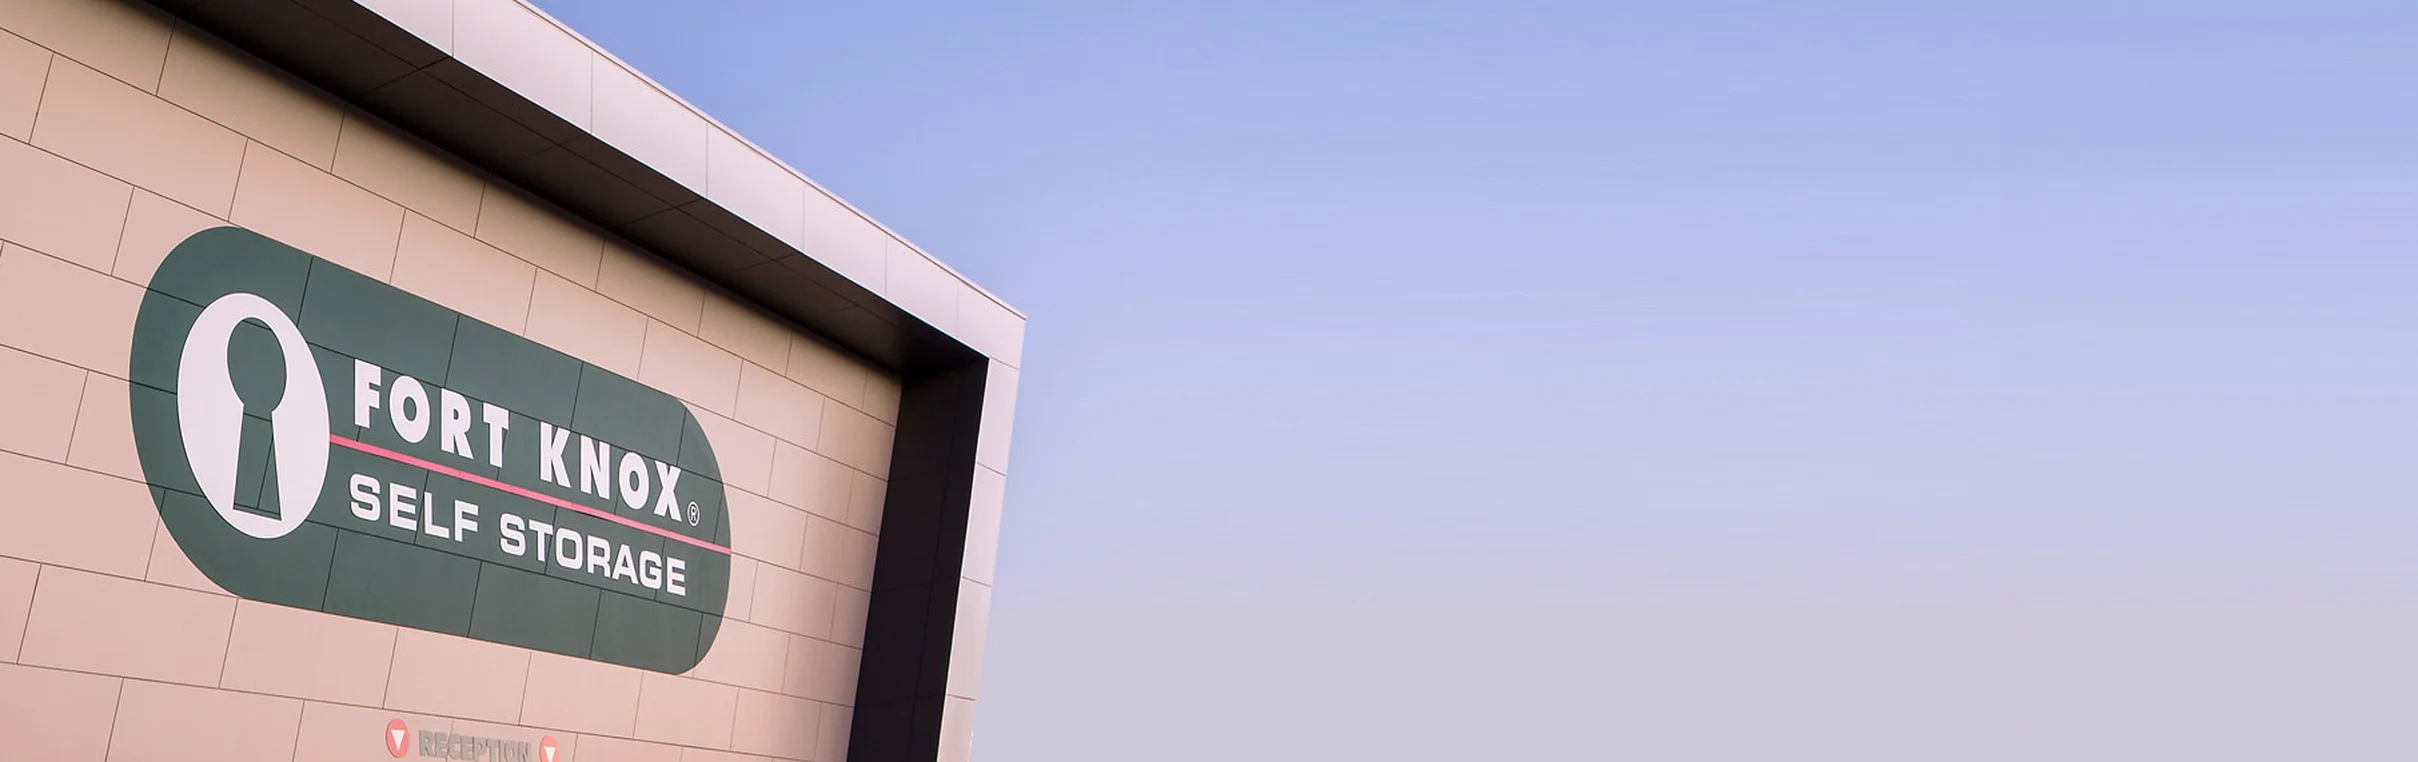
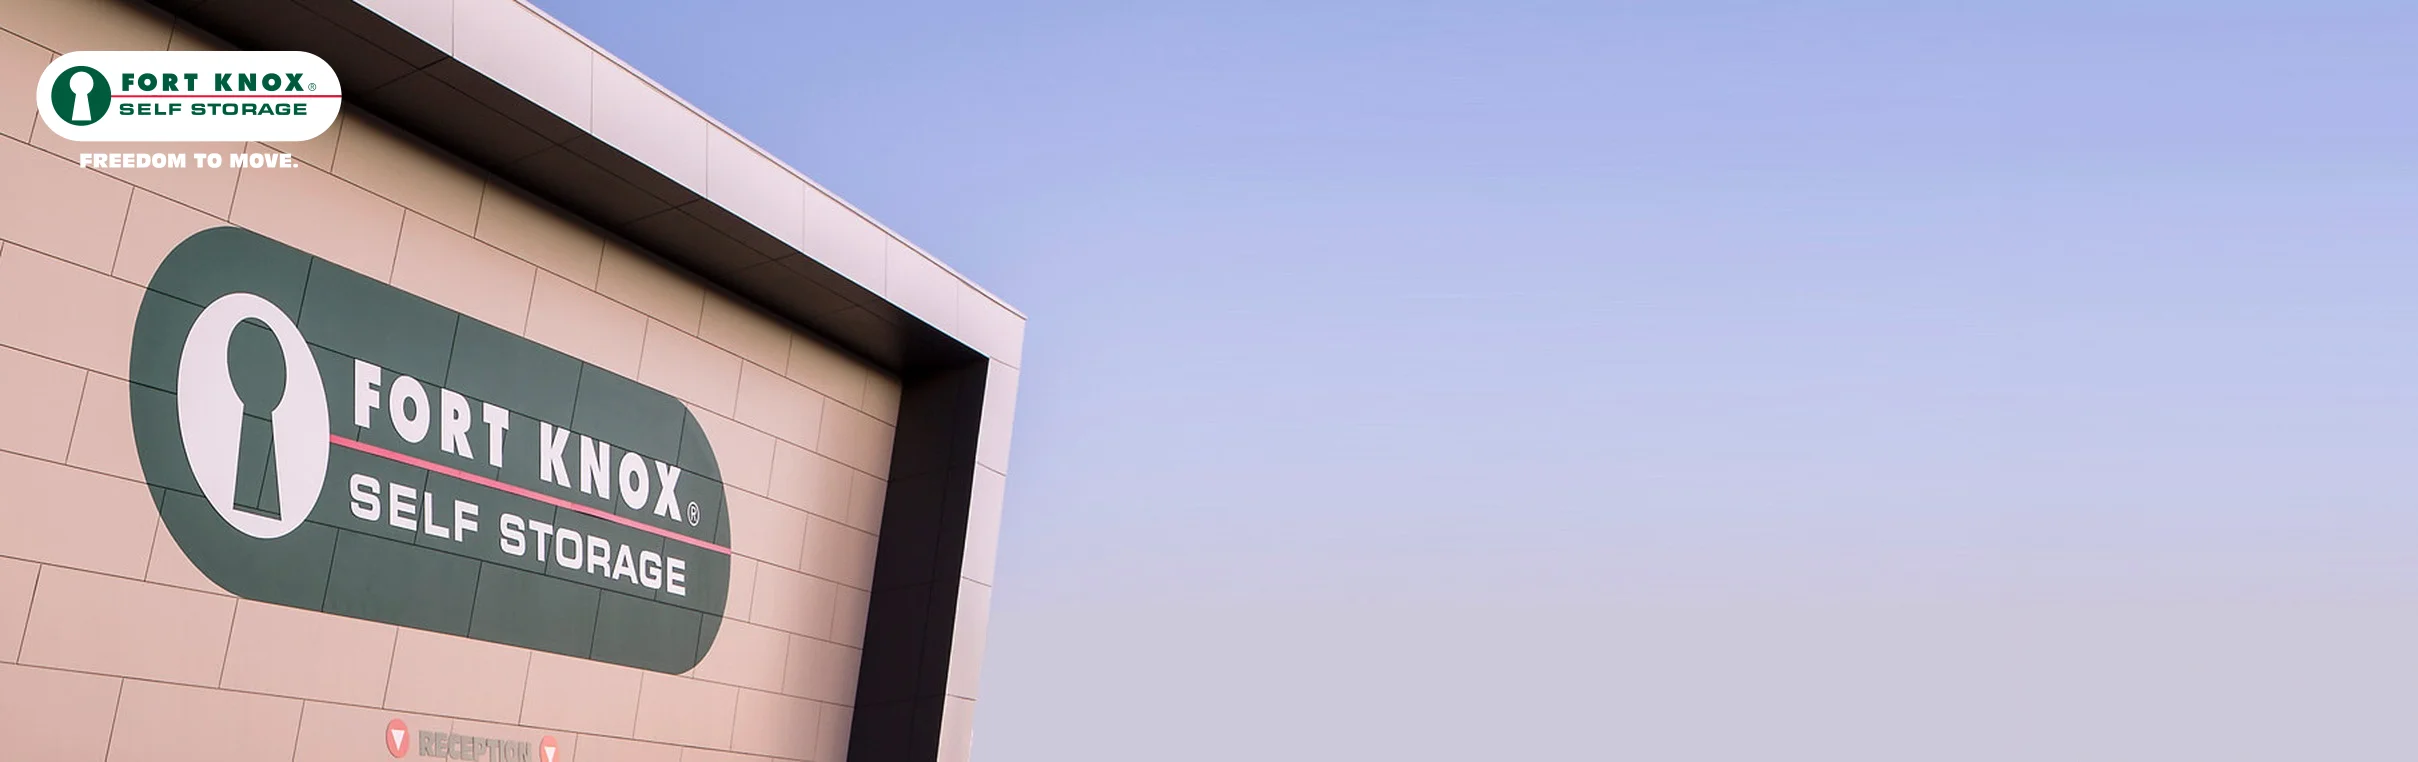
feat: finish the Fort Knox entry for publishing
- overview: real copy in place of the 'TBD' placeholder, which was
  rendering literally on the case studies listing card
- drawer.webp: rebuilt with the Fort Knox badge composited top-left, to
  match the other featured drawers which all carry their brand mark
- colour: bg-pixel-teal -> bg-pixel-solar. Fort Knox sat directly below
  Fletcher Insulation in the drawer and both were teal

Changed region(s): [[0.0, 0.0604, 0.1551, 0.2415]]

diff --git a/src/data/caseStudies.ts b/src/data/caseStudies.ts
@@ -355,8 +355,8 @@ const caseStudies: CaseStudy[] = [
     slug: 'fort-knox-self-storage-real-time-booking',
     industry: ['Self Storage'],
     services: ['Discovery + direction', 'Design', 'Development', 'Consulting'],
-    overview: 'TBD',
-    colour: 'bg-pixel-teal',
+    overview: 'A platform to run their business across 11 storage locations',
+    colour: 'bg-pixel-solar',
     image: fortKnox,
     drawerImage: fortKnoxDrawer,
     published: true,
